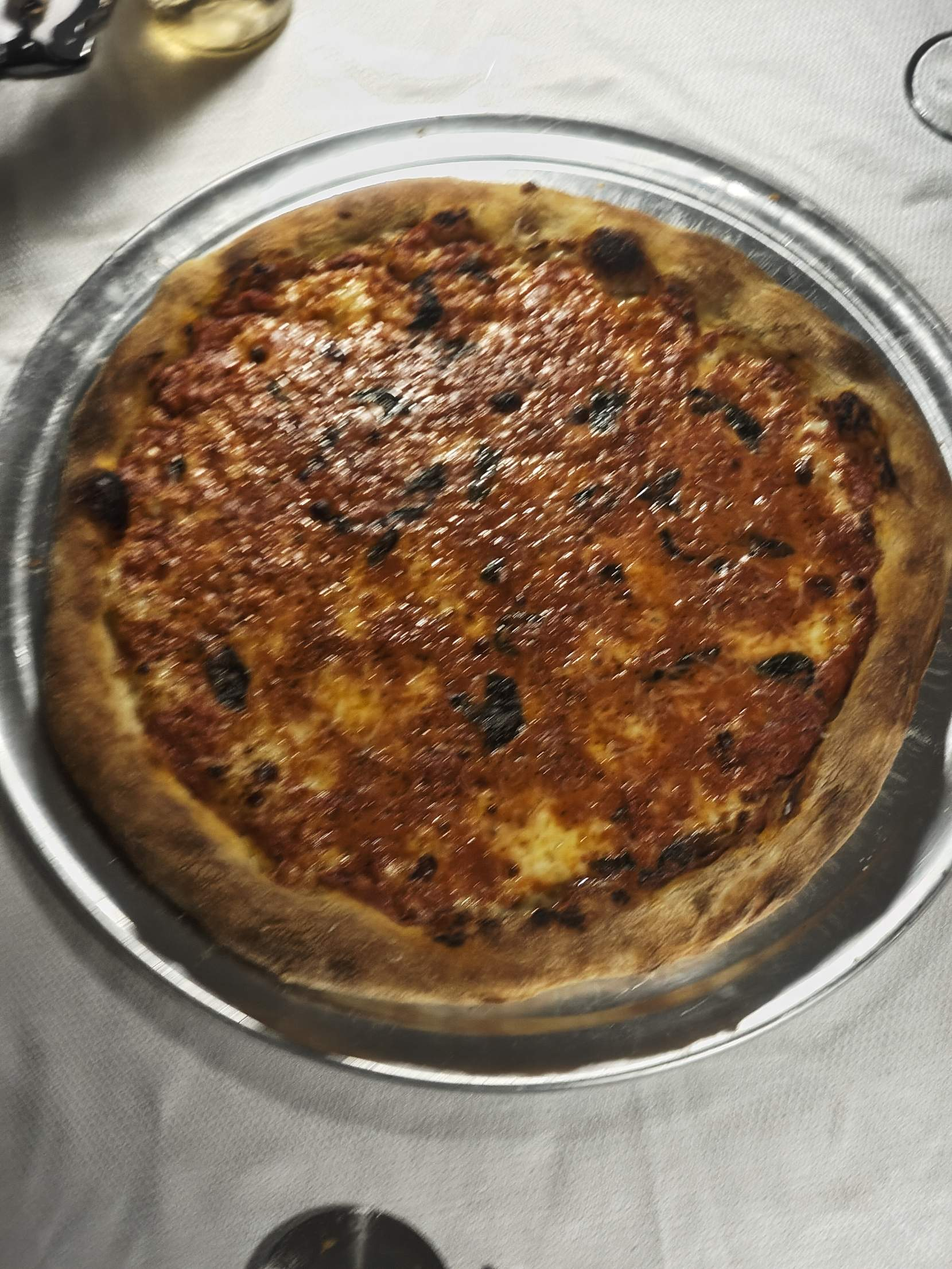
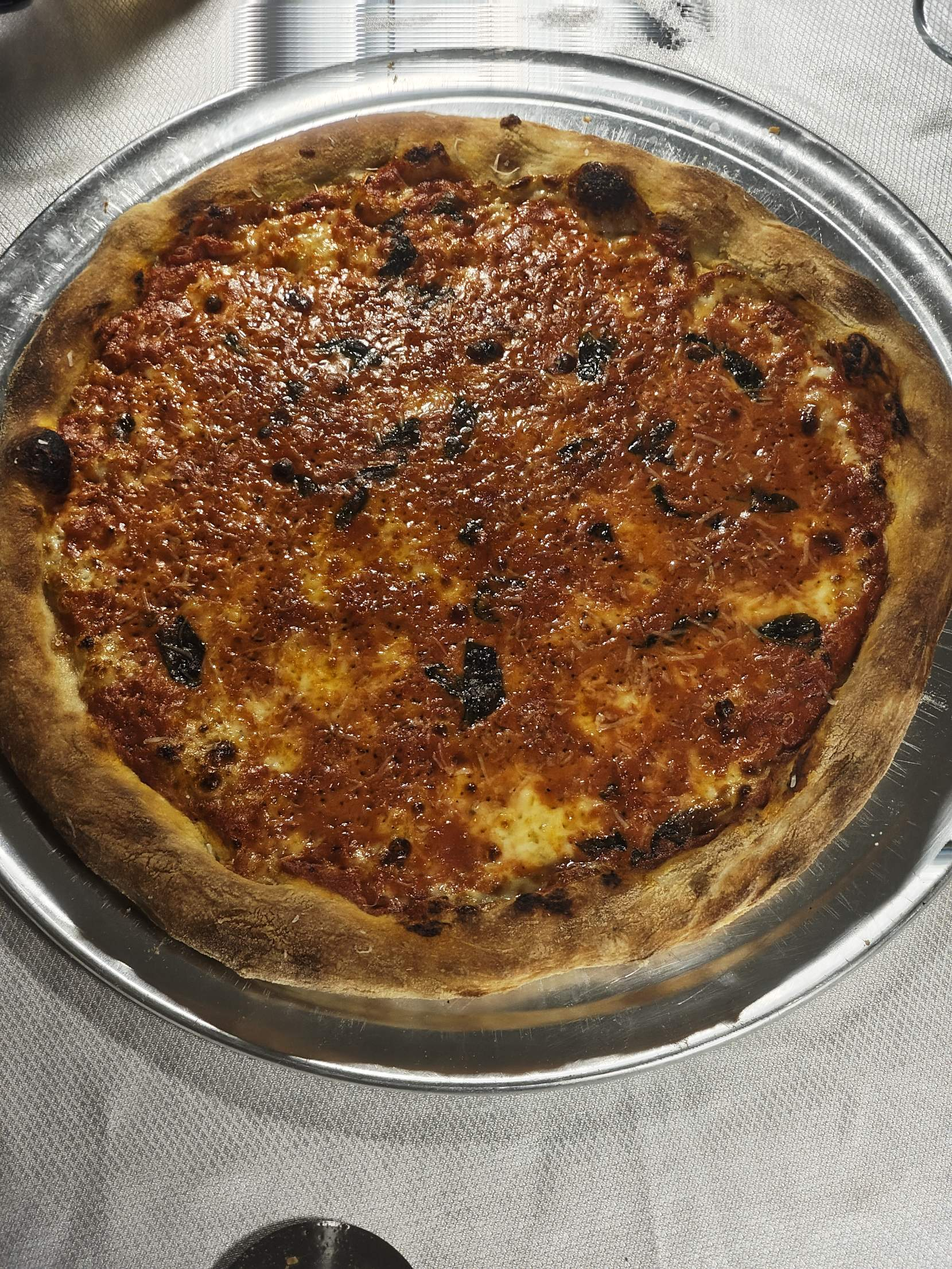
Use sharper photo for vodka pie
Claude-Session: https://claude.ai/code/session_016qFAtCwxqnqbw6GJB4ra3u

diff --git a/index.html b/index.html
@@ -15,7 +15,7 @@
 <meta name="twitter:card" content="summary_large_image">
 <link rel="icon" href="favicon.svg" type="image/svg+xml">
 <meta name="theme-color" content="#B5321F">
-<script type="application/ld+json">{"@context": "https://schema.org", "@type": "FoodEstablishment", "@id": "https://pizzaomakase.co.il/#business", "name": "Pizza Omakase", "url": "https://pizzaomakase.co.il/", "image": ["https://pizzaomakase.co.il/images/originals/classic.jpg", "https://pizzaomakase.co.il/images/pizza-vodka.webp?v=5", "https://pizzaomakase.co.il/images/pizza-spinach-artichoke.webp?v=4", "https://pizzaomakase.co.il/images/pizza-pear-hot-honey.webp?v=4", "https://pizzaomakase.co.il/images/pizza-mushroom.webp?v=4", "https://pizzaomakase.co.il/images/pizza-margherita-burrata.webp?v=4", "https://pizzaomakase.co.il/images/pizza-pesto-feta.webp?v=1"], "logo": "https://pizzaomakase.co.il/favicon.svg", "description": "Pizza Omakase is a chef's-choice New York–style pizza tasting experience in Israel: an appetizer, five unique pies, dessert and wine at one intimate table. Seats at scheduled evenings in Jaffa, private events, and pizza-making workshops.", "servesCuisine": ["Pizza", "New York-style pizza"], "areaServed": [{"@type": "City", "name": "Tel Aviv-Yafo"}, {"@type": "Country", "name": "Israel"}], "acceptsReservations": true, "priceRange": "₪150 per seat", "knowsLanguage": ["en", "he"], "hasMenu": {"@type": "Menu", "name": "Pizza Omakase tasting", "description": "Chef's choice: appetizer, five unique pies, dessert and wine."}}</script>
+<script type="application/ld+json">{"@context": "https://schema.org", "@type": "FoodEstablishment", "@id": "https://pizzaomakase.co.il/#business", "name": "Pizza Omakase", "url": "https://pizzaomakase.co.il/", "image": ["https://pizzaomakase.co.il/images/originals/classic.jpg", "https://pizzaomakase.co.il/images/pizza-vodka.webp?v=6", "https://pizzaomakase.co.il/images/pizza-spinach-artichoke.webp?v=4", "https://pizzaomakase.co.il/images/pizza-pear-hot-honey.webp?v=4", "https://pizzaomakase.co.il/images/pizza-mushroom.webp?v=4", "https://pizzaomakase.co.il/images/pizza-margherita-burrata.webp?v=4", "https://pizzaomakase.co.il/images/pizza-pesto-feta.webp?v=1"], "logo": "https://pizzaomakase.co.il/favicon.svg", "description": "Pizza Omakase is a chef's-choice New York–style pizza tasting experience in Israel: an appetizer, five unique pies, dessert and wine at one intimate table. Seats at scheduled evenings in Jaffa, private events, and pizza-making workshops.", "servesCuisine": ["Pizza", "New York-style pizza"], "areaServed": [{"@type": "City", "name": "Tel Aviv-Yafo"}, {"@type": "Country", "name": "Israel"}], "acceptsReservations": true, "priceRange": "₪150 per seat", "knowsLanguage": ["en", "he"], "hasMenu": {"@type": "Menu", "name": "Pizza Omakase tasting", "description": "Chef's choice: appetizer, five unique pies, dessert and wine."}}</script>
 <link rel="preconnect" href="https://fonts.googleapis.com">
 <link rel="preconnect" href="https://fonts.gstatic.com" crossorigin>
 <link rel="stylesheet" href="https://fonts.googleapis.com/css2?family=Bricolage+Grotesque:opsz,wght@12..96,500;12..96,700;12..96,800&family=Source+Serif+4:ital,opsz,wght@0,8..60,400;0,8..60,600;1,8..60,400&family=IBM+Plex+Mono:wght@400;500&display=swap">
@@ -266,7 +266,7 @@ footer .wrap a:hover{color:var(--ink)}
   <section id="pies" class="alt">
     <div class="wrap">
       <div class="pies">
-        <figure><img src="images/pizza-vodka.webp?v=5" alt="The Vodka pie" data-he-alt="פיצה וודקה" loading="lazy" width="900" height="900"></figure>
+        <figure><img src="images/pizza-vodka.webp?v=6" alt="The Vodka pie" data-he-alt="פיצה וודקה" loading="lazy" width="900" height="900"></figure>
         <figure><img src="images/pizza-spinach-artichoke.webp?v=4" alt="The Spinach Artichoke pie" data-he-alt="פיצה תרד וארטישוק" loading="lazy" width="900" height="900"></figure>
         <figure><img src="images/pizza-pear-hot-honey.webp?v=4" alt="The Poached Pear and Hot Honey pie" data-he-alt="פיצה אגס מבושל ודבש חריף" loading="lazy" width="900" height="900"></figure>
         <figure><img src="images/pizza-mushroom.webp?v=5" alt="White mushroom pie with Parmesan and chives" data-he-alt="פיצה לבנה עם פטריות, פרמזן ועירית" loading="lazy" width="900" height="900"></figure>
